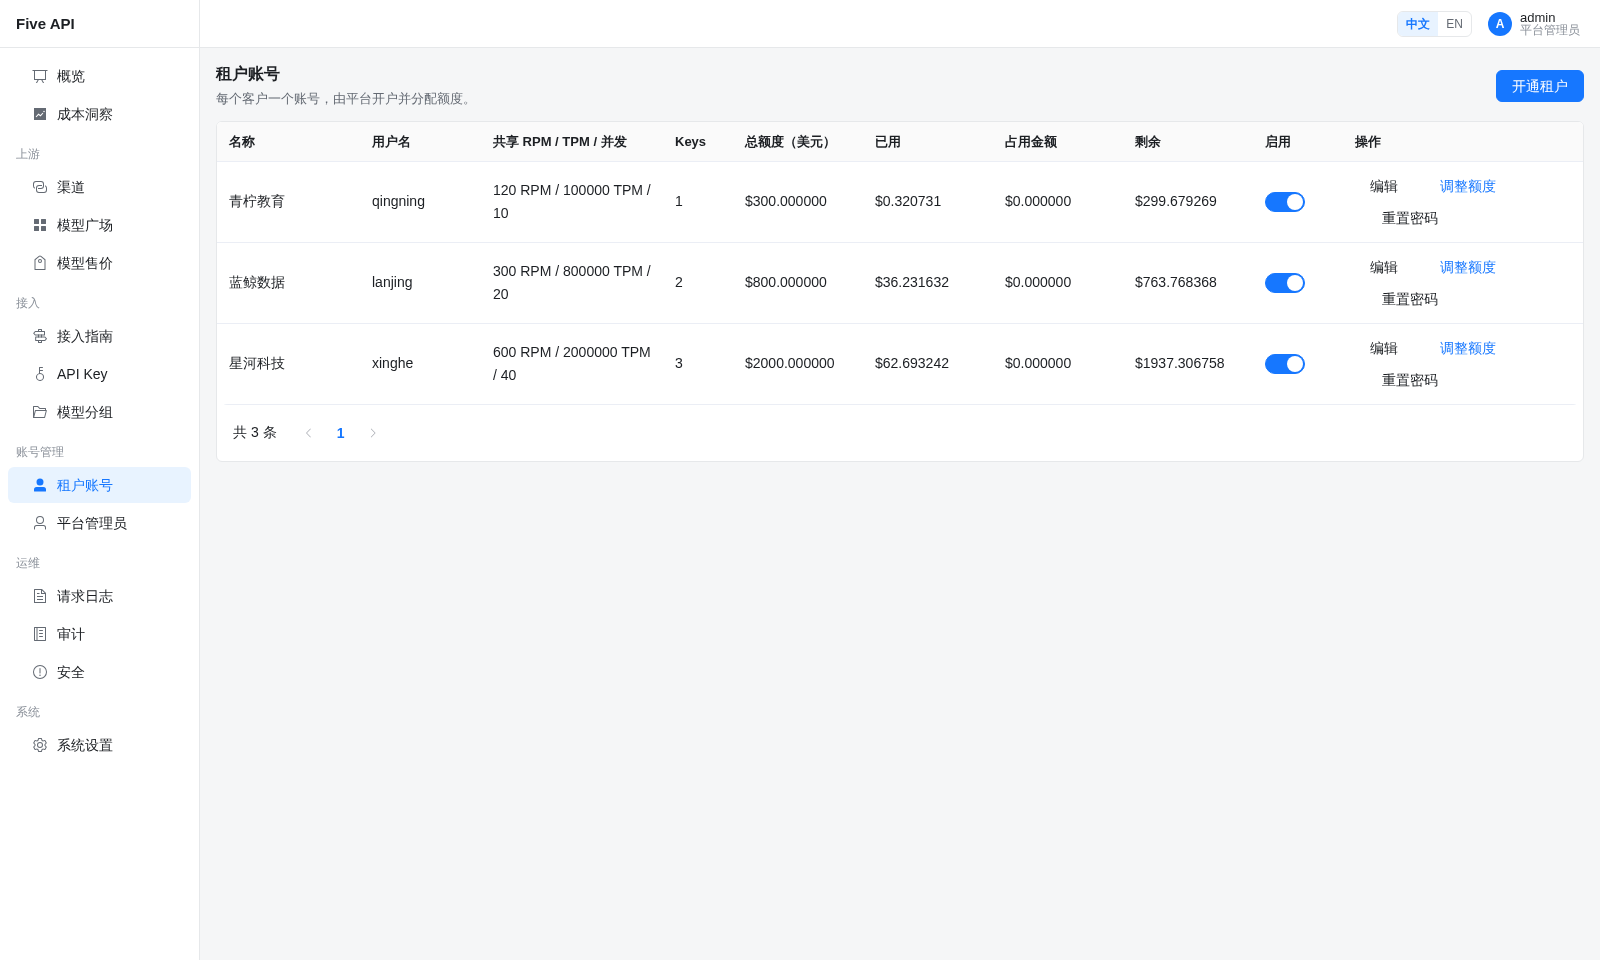
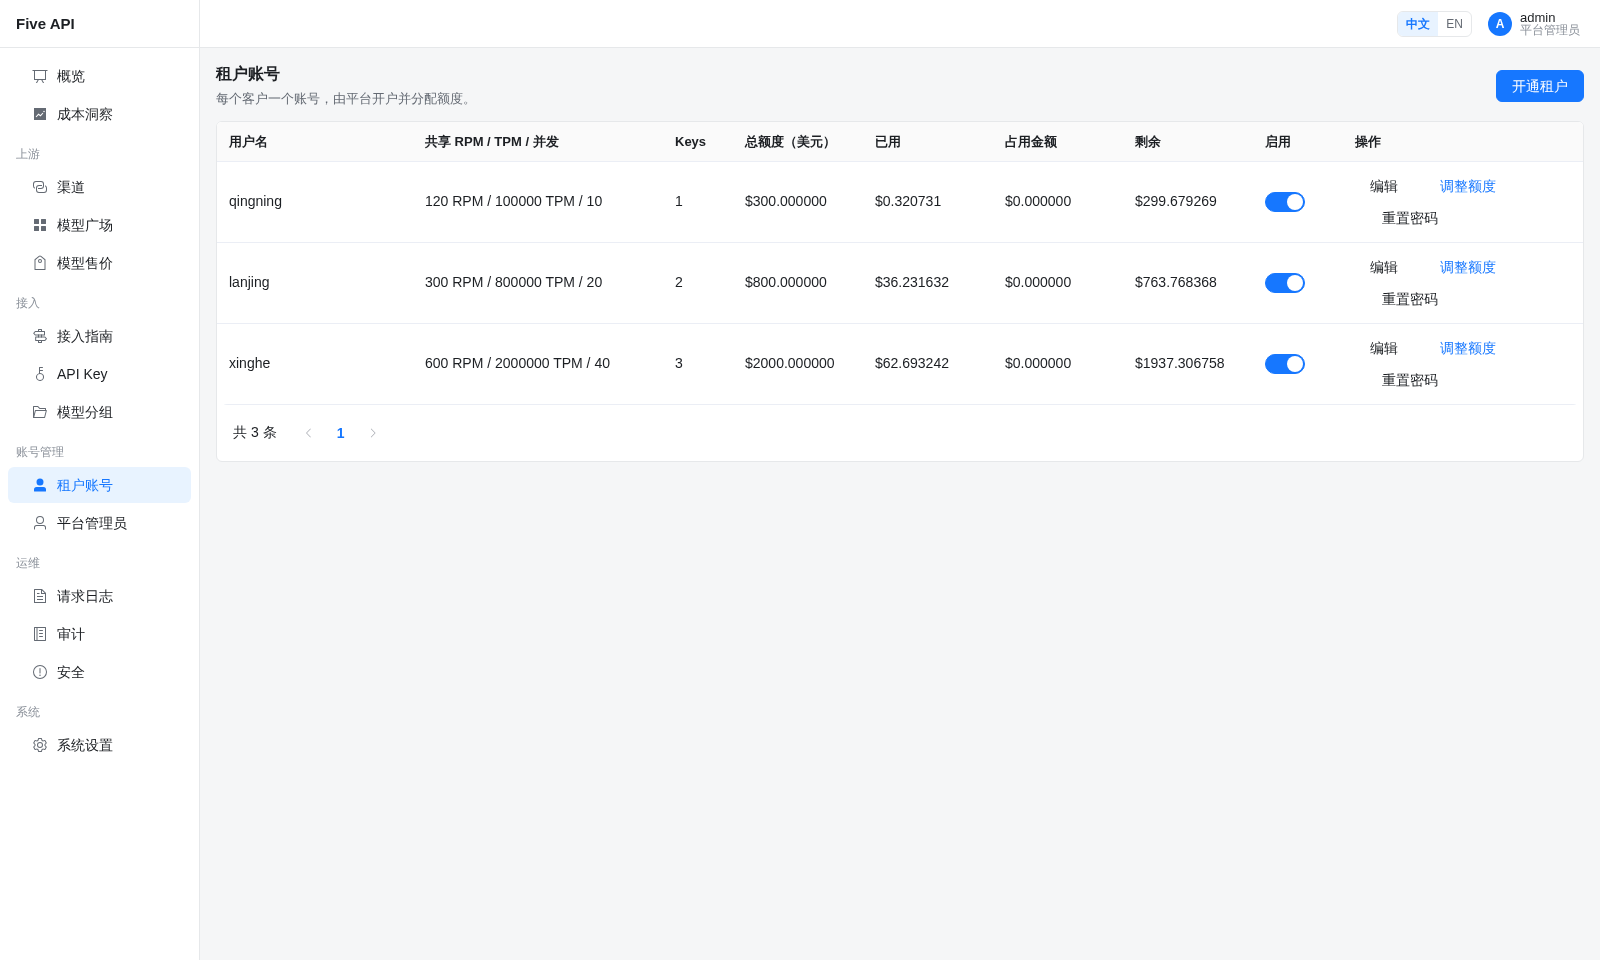
fix: keep secrets and upstream account details out of storage and tenant errors
- Mask private keys and AWS, GitHub and Slack tokens as [REDACTED:type]
  before audit content is stored; the upstream still gets the original.
- Hide upstream org/project IDs and rate-limit quotas in errors forwarded
  to tenants; admin logs keep the full text.
- Route app.* logs through the redacting formatter under Uvicorn.
- Retake the tenants screenshot for the username-only table.

diff --git a/backend/tests/test_redaction.py b/backend/tests/test_redaction.py
@@ -1,0 +1,119 @@
+import io
+import logging
+from unittest.mock import AsyncMock, patch
+
+import httpx
+
+from app.models import RequestLog, RequestLogAudit
+from app.services.error_detail import upstream_json_error
+from app.services.redaction import RedactingFormatter, configure_safe_logging, redact, redact_upstream_error
+from app.services.settings_service import set_inference_audit_enabled
+from tests.conftest import auth_header
+from tests.regression.test_error_origin import MOCK_COMPLETION_RESPONSE, _key_and_channel
+
+AWS = "AKIAIOSFODNN7EXAMPLE"
+GITHUB = "ghp_" + "a1B2c3D4e5F6g7H8i9J0k1L2m3N4"
+SLACK = "xoxb-1234567890-abcdefABCDEF"
+PRIVATE_KEY = "-----BEGIN RSA PRIVATE KEY-----\nMIIEowIBAAKCAQEAexample\n-----END RSA PRIVATE KEY-----"
+
+
+def test_scanned_secret_formats_are_redacted_with_their_type():
+    text = f"aws {AWS} gh {GITHUB} slack {SLACK}\n{PRIVATE_KEY}\nafter"
+    result = redact(text)
+    for secret in (AWS, GITHUB, SLACK, "MIIEowIBAAKCAQEAexample"):
+        assert secret not in result
+    for label in ("aws_access_key", "github_token", "slack_token", "private_key"):
+        assert f"[REDACTED:{label}]" in result
+    assert result.endswith("after")
+
+
+def test_truncated_private_key_is_redacted_to_the_end():
+    result = redact("key:\n-----BEGIN OPENSSH PRIVATE KEY-----\nb3BlbnNzaC1rZXktdjEAAAA")
+    assert result == "key:\n[REDACTED:private_key]"
+
+
+def test_ordinary_text_is_not_redacted():
+    text = "AKIA1234 is too short, github_token is a word, Limit is a word"
+    assert redact(text) == text
+    assert redact_upstream_error(text) == text
+
+
+def test_upstream_error_hides_platform_account_details():
+    body = {"error": {
+        "message": ("Rate limit reached for gpt-4o in organization org-AbC123xyz789 on tokens per min (TPM): "
+                    "Limit 30000, Used 29,500, Requested 1200. Project proj_Q1w2E3r4T5y6."),
+        "type": "tokens", "code": "rate_limit_exceeded",
+    }}
+    message = redact_upstream_error(body)["error"]["message"]
+    for leaked in ("org-AbC123xyz789", "30000", "29,500", "proj_Q1w2E3r4T5y6"):
+        assert leaked not in message
+    assert "Requested 1200" in message
+    assert "Rate limit reached for gpt-4o" in message
+
+
+def test_anthropic_rate_limit_hides_organization_and_quota():
+    message = ("This request would exceed the rate limit for your organization "
+               "(8f2c1a34-1111-4222-8333-123456789abc) of 50,000 input tokens per minute.")
+    result = redact_upstream_error(message)
+    assert "8f2c1a34" not in result and "50,000" not in result
+    assert "input tokens per minute" in result
+
+
+def test_context_length_errors_keep_their_numbers():
+    message = "This model's maximum context length is 128000 tokens. However, you requested 130000 tokens."
+    assert redact_upstream_error(message) == message
+
+
+def test_upstream_json_error_forwarded_to_client_is_scrubbed():
+    request = httpx.Request("POST", "https://api.openai.com/v1/chat/completions")
+    response = httpx.Response(
+        429, request=request,
+        json={"error": {"message": "in organization org-AbC123xyz789: Limit 100, Used 99", "type": "requests"}},
+    )
+    status, body = upstream_json_error(httpx.HTTPStatusError("429", request=request, response=response))
+    assert status == 429
+    assert "org-AbC123xyz789" not in body["error"]["message"]
+    assert "Limit [REDACTED], Used [REDACTED]" in body["error"]["message"]
+
+
+def test_app_logs_are_redacted_without_a_root_handler():
+    app_logger = logging.getLogger("app")
+    root = logging.getLogger()
+    saved_app, saved_root = app_logger.handlers[:], root.handlers[:]
+    app_logger.handlers, root.handlers = [], []
+    try:
+        configure_safe_logging()
+        assert app_logger.handlers and isinstance(app_logger.handlers[0].formatter, RedactingFormatter)
+        stream = io.StringIO()
+        app_logger.handlers[0].setStream(stream)
+        logging.getLogger("app.services.example").warning("upstream failed Bearer sk-live1234567890abcd %s", AWS)
+        output = stream.getvalue()
+        assert "sk-live1234567890abcd" not in output and AWS not in output
+        assert "upstream failed" in output
+    finally:
+        app_logger.handlers, root.handlers = saved_app, saved_root
+
+
+async def test_stored_audit_content_has_secrets_removed(client):
+    await set_inference_audit_enabled(True)
+    channel, raw_key = await _key_and_channel("https://api.openai.com")
+    provider = AsyncMock()
+    provider.send_request = AsyncMock(return_value=MOCK_COMPLETION_RESPONSE)
+    provider.apply_model_mapping = lambda model: model
+    provider.close = AsyncMock()
+
+    with patch("app.services.routing.resolve_with_fallbacks", return_value=[(channel, lambda _: provider)]):
+        resp = await client.post(
+            "/v1/chat/completions",
+            json={"model": "gpt-4o", "messages": [{"role": "user", "content": f"deploy with {AWS} please"}]},
+            headers=auth_header(raw_key),
+        )
+
+    assert resp.status_code == 200
+    log = await RequestLog.get(request_id=resp.headers["x-request-id"])
+    audit = await RequestLogAudit.get(request_log_id=log.id)
+    assert AWS not in audit.audit_request
+    assert "[REDACTED:aws_access_key]" in audit.audit_request
+    assert "deploy with" in audit.audit_request
+    sent = provider.send_request.await_args.args[0]
+    assert AWS in str(sent)

diff --git a/backend/app/services/redaction.py b/backend/app/services/redaction.py
@@ -3,7 +3,19 @@ import re
 
 from app.services.request_context import credentials
 
+SECRET_RULES: tuple[tuple[str, re.Pattern[str]], ...] = (
+    ("private_key", re.compile(r"-----BEGIN [A-Z0-9 ]{0,48}PRIVATE KEY-----")),
+    ("aws_access_key", re.compile(r"AKIA[0-9A-Z]{16}")),
+    ("github_token", re.compile(r"gh[pousr]_[A-Za-z0-9]{20,}")),
+    ("slack_token", re.compile(r"xox[baprs]-[A-Za-z0-9-]{10,}")),
+)
+
 _PATTERNS = [
+    (re.compile(r"-----BEGIN [A-Z0-9 ]{0,48}PRIVATE KEY-----.*?(?:-----END [A-Z0-9 ]{0,48}PRIVATE KEY-----|\Z)", re.S),
+     "[REDACTED:private_key]"),
+    (re.compile(r"AKIA[0-9A-Z]{16}"), "[REDACTED:aws_access_key]"),
+    (re.compile(r"gh[pousr]_[A-Za-z0-9]{20,}"), "[REDACTED:github_token]"),
+    (re.compile(r"xox[baprs]-[A-Za-z0-9-]{10,}"), "[REDACTED:slack_token]"),
     (re.compile(r"(?i)(bearer\s+)[A-Za-z0-9._~+/-]+=*"), r"\1[REDACTED]"),
     (re.compile(r"\bsk-[A-Za-z0-9_-]{12,}"), "[REDACTED]"),
     (re.compile(r"\beyJ[A-Za-z0-9_-]+\.[A-Za-z0-9_-]+\.[A-Za-z0-9_-]+"), "[REDACTED]"),
@@ -11,6 +23,15 @@ _PATTERNS = [
     (re.compile(r"(https?://)[^/\s:@]+:[^/\s@]+@"), r"\1[REDACTED]@"),
 ]
 _SENSITIVE = {"authorization", "x-api-key", "api_key", "access_token", "password", "old_password", "new_password", "secret"}
+
+# Upstream error text describes the platform's own account; tenants see the error, not the account.
+_UPSTREAM_ACCOUNT_PATTERNS = [
+    (re.compile(r"\borg-[A-Za-z0-9]{6,}"), "org-[REDACTED]"),
+    (re.compile(r"\bproj_[A-Za-z0-9]{6,}"), "proj_[REDACTED]"),
+    (re.compile(r"(?i)(organization\s*\(?)[0-9a-f]{8}-[0-9a-f]{4}-[0-9a-f]{4}-[0-9a-f]{4}-[0-9a-f]{12}"), r"\1[REDACTED]"),
+    (re.compile(r"(?i)\b(limit:?\s*)\d[\d,.]*(,\s*used:?\s*)\d[\d,.]*"), r"\1[REDACTED]\2[REDACTED]"),
+    (re.compile(r"(?i)\b(of\s+)\d[\d,]*(\s+(?:input\s+|output\s+)?tokens?\s+per\s+(?:minute|day|hour))"), r"\1[REDACTED]\2"),
+]
 
 
 def redact(value):
@@ -27,6 +48,23 @@ def redact(value):
     return value
 
 
+def _hide_upstream_account(value):
+    if isinstance(value, dict):
+        return {key: _hide_upstream_account(item) for key, item in value.items()}
+    if isinstance(value, list):
+        return [_hide_upstream_account(item) for item in value]
+    if not isinstance(value, str):
+        return value
+    for pattern, replacement in _UPSTREAM_ACCOUNT_PATTERNS:
+        value = pattern.sub(replacement, value)
+    return value
+
+
+def redact_upstream_error(value):
+    """Upstream error bodies sent to tenants: credentials plus the platform's account IDs and limits."""
+    return _hide_upstream_account(redact(value))
+
+
 class RedactingFormatter(logging.Formatter):
     def __init__(self, original: logging.Formatter):
         super().__init__()
@@ -36,8 +74,16 @@ class RedactingFormatter(logging.Formatter):
         return redact(self.original.format(record))
 
 
+_APP_FORMAT = "%(asctime)s %(levelname)s %(name)s: %(message)s"
+
+
 def configure_safe_logging():
-    for name in ("", "uvicorn", "uvicorn.error", "uvicorn.access", "httpx", "httpcore"):
+    for name in ("", "uvicorn", "uvicorn.error", "uvicorn.access", "httpx", "httpcore", "app"):
         for handler in logging.getLogger(name).handlers:
             if not isinstance(handler.formatter, RedactingFormatter):
                 handler.setFormatter(RedactingFormatter(handler.formatter or logging.Formatter("%(levelname)s %(message)s")))
+    app_logger = logging.getLogger("app")
+    if not app_logger.handlers and not logging.getLogger().handlers:
+        handler = logging.StreamHandler()
+        handler.setFormatter(RedactingFormatter(logging.Formatter(_APP_FORMAT)))
+        app_logger.addHandler(handler)

diff --git a/backend/app/services/proxy.py b/backend/app/services/proxy.py
@@ -49,7 +49,7 @@ from app.services.pricing import count_text_tokens
 from app.services.quota import RequestLease
 from app.services import settlements
 from app.services.billing_quotes import quote_cost, selling_quote
-from app.services.redaction import redact
+from app.services.redaction import redact, redact_upstream_error
 from app.services.request_context import client_request_id
 from app.services.sticky_session import bind_sticky_channel
 from app.services.stream_outcomes import StreamOutcome, UpstreamStreamError
@@ -710,7 +710,7 @@ async def stream_with_failover(
             raise HTTPException(status_code=status_code, detail=detail,
                                 headers=forwardable_headers(e.response) if isinstance(e, httpx.HTTPStatusError) else {})
         if isinstance(e, UpstreamStreamError) and e.event and not is_credential_error(e):
-            yield redact(e.event)
+            yield redact_upstream_error(e.event)
         else:
             yield format_error_event(e)
     finally:

diff --git a/backend/app/services/content_filter.py b/backend/app/services/content_filter.py
@@ -5,21 +5,14 @@
 """
 
 import json
-import re
 import time
 from typing import Any
 
 from app.models import SecurityKeyword
 from app.services.audit import response_visible_text, sse_visible_text
+from app.services.redaction import SECRET_RULES as _SECRET_RULES
 from app.services.settings_service import keyword_filter_enabled, secret_scan_enabled
 
-# 固定模式，没有嵌套量词。日志里只记名字，不记命中的密钥本身。
-_SECRET_RULES: tuple[tuple[str, re.Pattern[str]], ...] = (
-    ("private_key", re.compile(r"-----BEGIN [A-Z0-9 ]{0,48}PRIVATE KEY-----")),
-    ("aws_access_key", re.compile(r"AKIA[0-9A-Z]{16}")),
-    ("github_token", re.compile(r"gh[pousr]_[A-Za-z0-9]{20,}")),
-    ("slack_token", re.compile(r"xox[baprs]-[A-Za-z0-9-]{10,}")),
-)
 _SECRET_TAIL = 180
 _CACHE_TTL = 2.0
 _cache: tuple[float, "FilterRules"] | None = None

diff --git a/backend/app/services/error_detail.py b/backend/app/services/error_detail.py
@@ -6,7 +6,7 @@ import httpx
 
 from app.providers.base import ERROR_IN_OK
 from app.services.failover import NoReadyUpstreamKey, is_credential_error
-from app.services.redaction import redact
+from app.services.redaction import redact, redact_upstream_error
 from app.services.stream_outcomes import UpstreamStreamError
 
 MAX_ERROR_CHARS = 8_000
@@ -91,7 +91,7 @@ def upstream_json_error(exc: Exception) -> tuple[int, dict] | None:
         return None
     if not isinstance(data, dict):
         return None
-    return status, redact(data)
+    return status, redact_upstream_error(data)
 
 
 def client_status(exc: Exception) -> int:

diff --git a/backend/app/services/ai_audit.py b/backend/app/services/ai_audit.py
@@ -33,7 +33,8 @@ _SYSTEM_PROMPT = (
     "credentials, or private personal data that must not be sent to a model. "
     'Reply with one JSON object only: {"block":true,"category":"credential"} '
     'or {"block":false}. category is credential, personal, or confidential. '
-    "Do not repeat the excerpt."
+    "A [REDACTED] or [REDACTED:...] marker is a secret the gateway removed before storage; "
+    "treat it as a credential. Do not repeat the excerpt."
 )
 
 

diff --git a/CHANGELOG.md b/CHANGELOG.md
@@ -18,6 +18,12 @@
 - 租户账号只填用户名：控制台创建和编辑租户不再有单独的“名称”，用户名同时作为租户名称（Key 列表、概览排行里显示的就是它）；已有租户保留原名称。API 的 `name` 改为可选，省略时等于用户名，`PUT /api/tenants/{id}` 仍可改名。
 - 调整额度改成“增加 / 减少 / 设为总额”，弹窗先读取最新额度，显示调整后的总额，低于已用加占用时直接提示并禁止保存；原因改为选填（接口的 `reason` 也变为可选），审计事件始终记录调整前后的金额，且“调整前”不再写成 `2E+1` 这样的科学计数法。无需数据库迁移。
 
+### 安全
+
+- 保存审计内容前，私钥、AWS Access Key、GitHub Token、Slack Token 会被替换成 `[REDACTED:类型]`，数据库和备份里不再留存明文；发给上游的请求不受影响，密钥扫描的命中标记照常记录。AI 审查把这些标记视为凭据。升级前已保存的审计内容不会被改写，会随日志保留期自然清理。
+- 转发给租户的上游错误（4xx JSON 和流式错误事件）会隐去平台自己的上游账户信息：OpenAI 的 `org-`、`proj_` 编号，Anthropic 报错里的组织 ID，以及限流报错中的额度上限和已用量。错误类型、状态码、上下文超长等报错原文保持不变。请求日志里管理员看到的仍是完整原文。
+- 应用自身的日志（`app.*`）统一经过脱敏后输出，此前在 Uvicorn 下会绕过脱敏直接写到 stderr。无需数据库迁移。
+
 ### 修复
 
 - Anthropic 渠道的模型列表检查返回 HTTP 404 / 405 时标为“跳过”，保留状态码和说明，不计入整体成功判定和通过率分母。Messages 及流式仍独立验证；鉴权、限流、服务端错误、超时和 OpenAI 渠道的列表错误仍记录为失败。无需数据库迁移。

diff --git a/docs/README.en.md b/docs/README.en.md
@@ -84,7 +84,7 @@ Based on public documentation and issues as of October 2026. For new-api's reser
 | Tenants | Two fixed roles, platform administrator and tenant. Tenants manage their own keys, IP allowlists, RPM/TPM/concurrency and budgets; every query is scoped on the server |
 | Routing | Priority tiers, then weight, least in-flight or lowest latency; multi-key pools, sticky sessions, model fallback chains; keys can be bound to chosen channels |
 | Failover | 5xx, timeouts, 429 and revoked upstream keys switch channels; streams switch only before the first byte; circuit breaker; non-idempotent requests such as images and videos are never resubmitted |
-| Audit | Request excerpts saved per key and scanned for private keys and AWS, GitHub and Slack tokens; a cheap model can review a key's requests and produce a downloadable report |
+| Audit | Request excerpts saved per key and scanned for private keys and AWS, GitHub and Slack tokens, which are masked before storage; a cheap model can review a key's requests and produce a downloadable report |
 | Model quality | Periodic health checks, plus a daily synthetic suite for GPT/Claude channels covering instruction following, reasoning and tool use |
 | Cost | Daily cache hit and savings insights; automatic Anthropic cache markers; automatic downgrade to a cheaper model near the budget |
 | Security | Upstream keys encrypted at rest with an optional master key kept apart from the JWT key and outside the database; API keys shown once |

diff --git a/docs/DESIGN.md b/docs/DESIGN.md
@@ -32,7 +32,7 @@
 - 所有租户查询在服务端限定归属，跨租户详情返回 404；视频查询、下载和历史任务同样先校验 Key 归属。
 - 租户只有 Key 页和改密入口。模型广场、价格、巡检和平台日志只对管理员开放。
 - 租户经 `GET /api/keys/channels` 只看到可用渠道的名称、倍率、模型价格和健康状态，不含上游地址与密钥。
-- 日志、错误、告警中的已知凭据都会脱敏。只记录必要的管理事件：开户、额度、Key、价格、渠道、设置和异常处理。
+- 日志、错误、告警中的已知凭据都会脱敏；审计内容存库前把扫描命中的密钥替换为 `[REDACTED:类型]`。转发给租户的上游错误另外隐去平台的上游组织、项目编号和限流额度，管理员日志保留原文。只记录必要的管理事件：开户、额度、Key、价格、渠道、设置和异常处理。
 
 ## 管理 API
 

diff --git a/README.md b/README.md
@@ -121,7 +121,7 @@ cd backend && ../.venv/bin/pytest -q tests/test_billing_invariants.py tests/test
 
 <br>
 
-- 按 Key 保存请求内容（不保存回复），自动扫描私钥、AWS、GitHub、Slack 等密钥，不阻断调用。
+- 按 Key 保存请求内容（不保存回复），自动扫描私钥、AWS、GitHub、Slack 等密钥，不阻断调用；命中的密钥存库前打码，只留类型。
 - 员工离职或怀疑泄密时，在审计页选中 Key，让便宜模型逐条审查最近的请求，生成可下载的审计报告；审过的不重复送审。
 
 ![审计报告](docs/images/audit.png)
